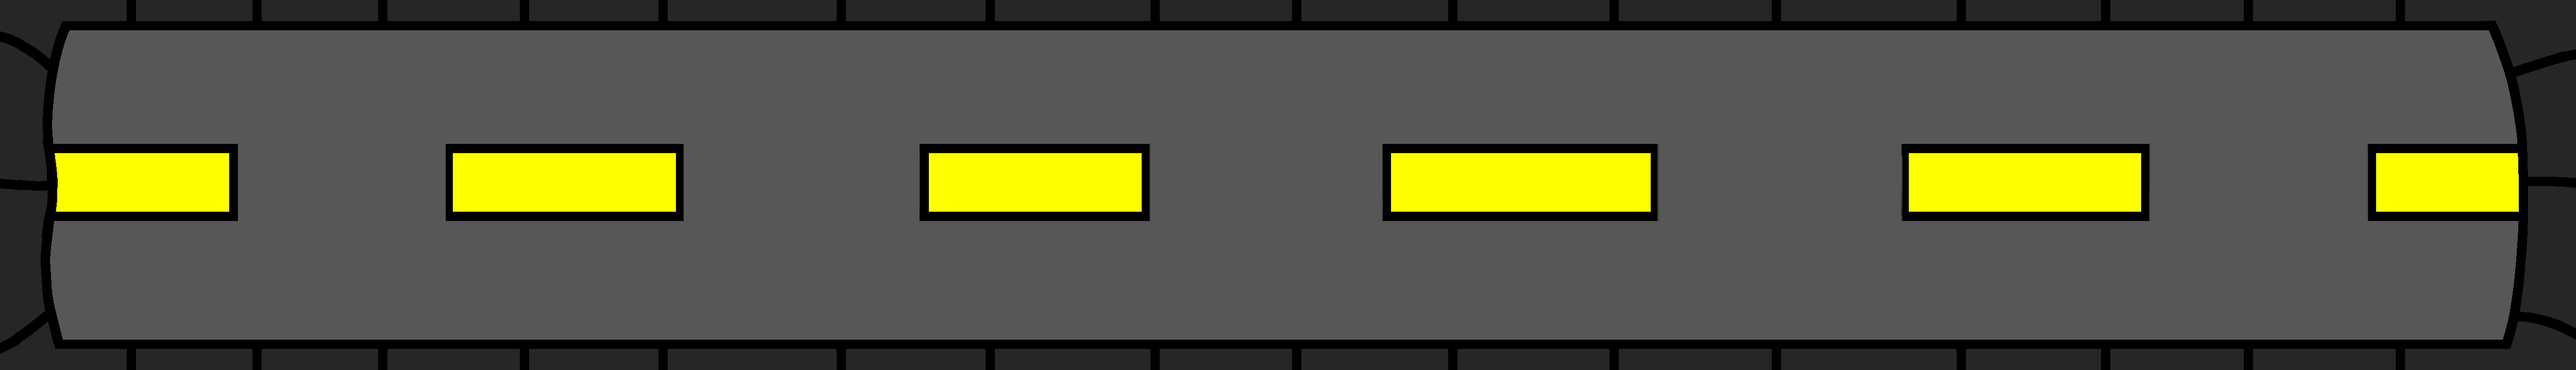
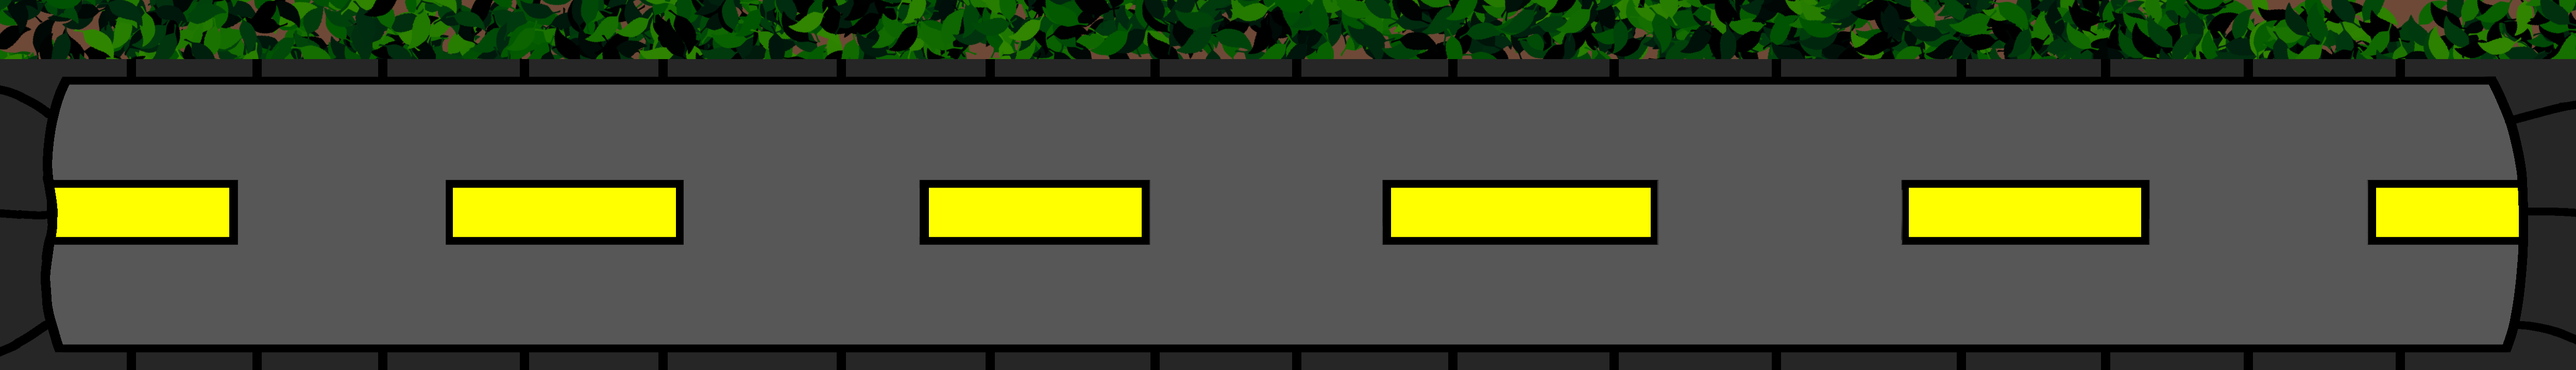
ปรับการแสดงผลพื้นหลังในฉาก

diff --git a/character.py b/character.py
@@ -66,13 +66,7 @@ class Player(pygame.sprite.Sprite):
         self.magic_sprites = pygame.sprite.Group()
 
     def calculate_distance_speed(self):
-        distance_speed = 1
-        while True:
-            distance_speed += 1
-            if (self.__screen.width(1)//distance_speed) <= 8:
-                break
-
-        return distance_speed
+        return self.__screen.width(3)
 
     def update(self, var: Variable, events):
         # ดึงค่า keyboard ที่กดอยู่ในปัจจุบัน

diff --git a/page_play_vsMons.py b/page_play_vsMons.py
@@ -8,9 +8,11 @@ import random
 
 
 def high_x(screen: fw.Screen, picture: pygame.Surface):
-    min_width = screen.width(1)
     picture_width = picture.get_width()
-    return fw.ceil(picture_width // min_width)
+    picture_height = picture.get_height()
+    scale = picture_width / picture_height
+    scale = fw.ceil(scale * screen.MAX_Y)
+    return screen.true_position_x(scale)
 
 
 # ฟังก์ชันหลักของเกม
